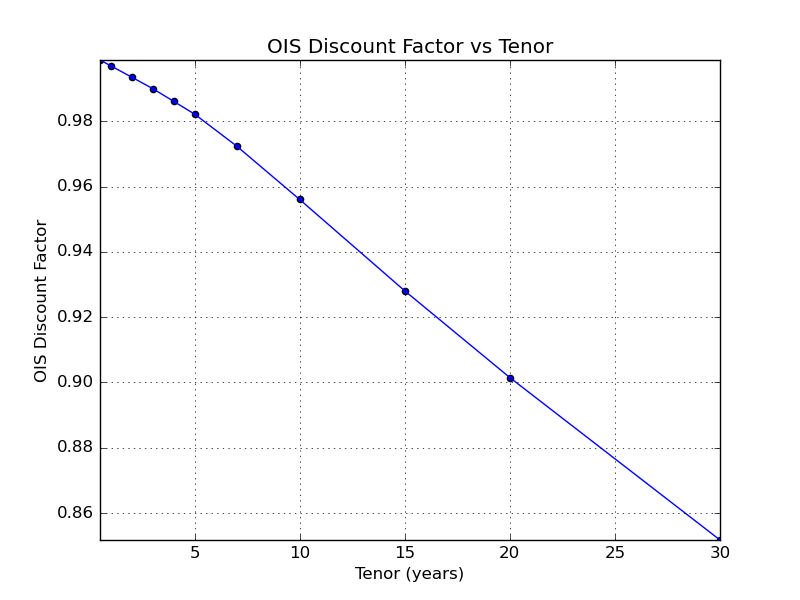
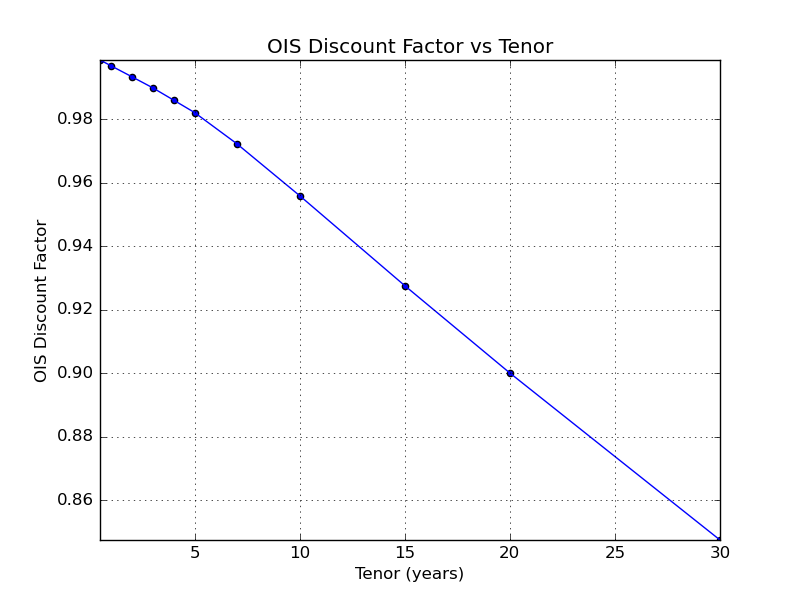
fix(ois discount factor): fix various bugs

diff --git a/bootstrap_swap_curve/ois_discount_factor.py b/bootstrap_swap_curve/ois_discount_factor.py
@@ -190,15 +190,32 @@ class OISBootstrapping:
                 if len(discount_factor) == 0:
                     # Discount factor of a certain tenor is not found in the dataframe.
                     # As such, the value needs to be interpolated
-                    prev_discount_factor_dict[i] = (
-                        lambda f: self.interpolate_discount_factor_between_tenor(
-                            prev_discount_factor,
-                            current_discount_factor_function(f),
-                            prev_tenor,
-                            tenor,
-                            i,
+                    if i < prev_tenor:
+                        ois_row_before_i = self.df_ois[self.df_ois["Tenor"] < i].iloc[
+                            -1, :
+                        ]
+                        ois_row_after_i = self.df_ois[self.df_ois["Tenor"] > i].iloc[
+                            0, :
+                        ]
+                        prev_discount_factor_dict[i] = (
+                            self.interpolate_discount_factor_between_tenor(
+                                ois_row_before_i["Discount Factor"],
+                                ois_row_after_i["Discount Factor"],
+                                ois_row_before_i["Tenor"],
+                                ois_row_after_i["Tenor"],
+                                i,
+                            )
                         )
-                    )
+                    else:
+                        prev_discount_factor_dict[i] = (
+                            lambda f, interp_tenor: self.interpolate_discount_factor_between_tenor(
+                                prev_discount_factor,
+                                current_discount_factor_function(f),
+                                prev_tenor,
+                                tenor,
+                                interp_tenor,
+                            )
+                        )
 
                 else:
                     prev_discount_factor_dict[i] = discount_factor[0]
@@ -207,8 +224,8 @@ class OISBootstrapping:
             def present_value_fixed_func(f):
                 return (
                     sum(
-                        e(f) if callable(e) else e
-                        for e in prev_discount_factor_dict.values()
+                        val(f, key) if callable(val) else val
+                        for key, val in prev_discount_factor_dict.items()
                     )
                     + current_discount_factor_function(f)
                 ) * rate
@@ -226,7 +243,7 @@ class OISBootstrapping:
                     self.fixed_leg_period,
                 ):
                     prev_interpolated_discount_factors.append(
-                        prev_discount_factor_dict[i](f)
+                        prev_discount_factor_dict[i](f, i)
                     )
                 return sum(prev_interpolated_discount_factors)
 
